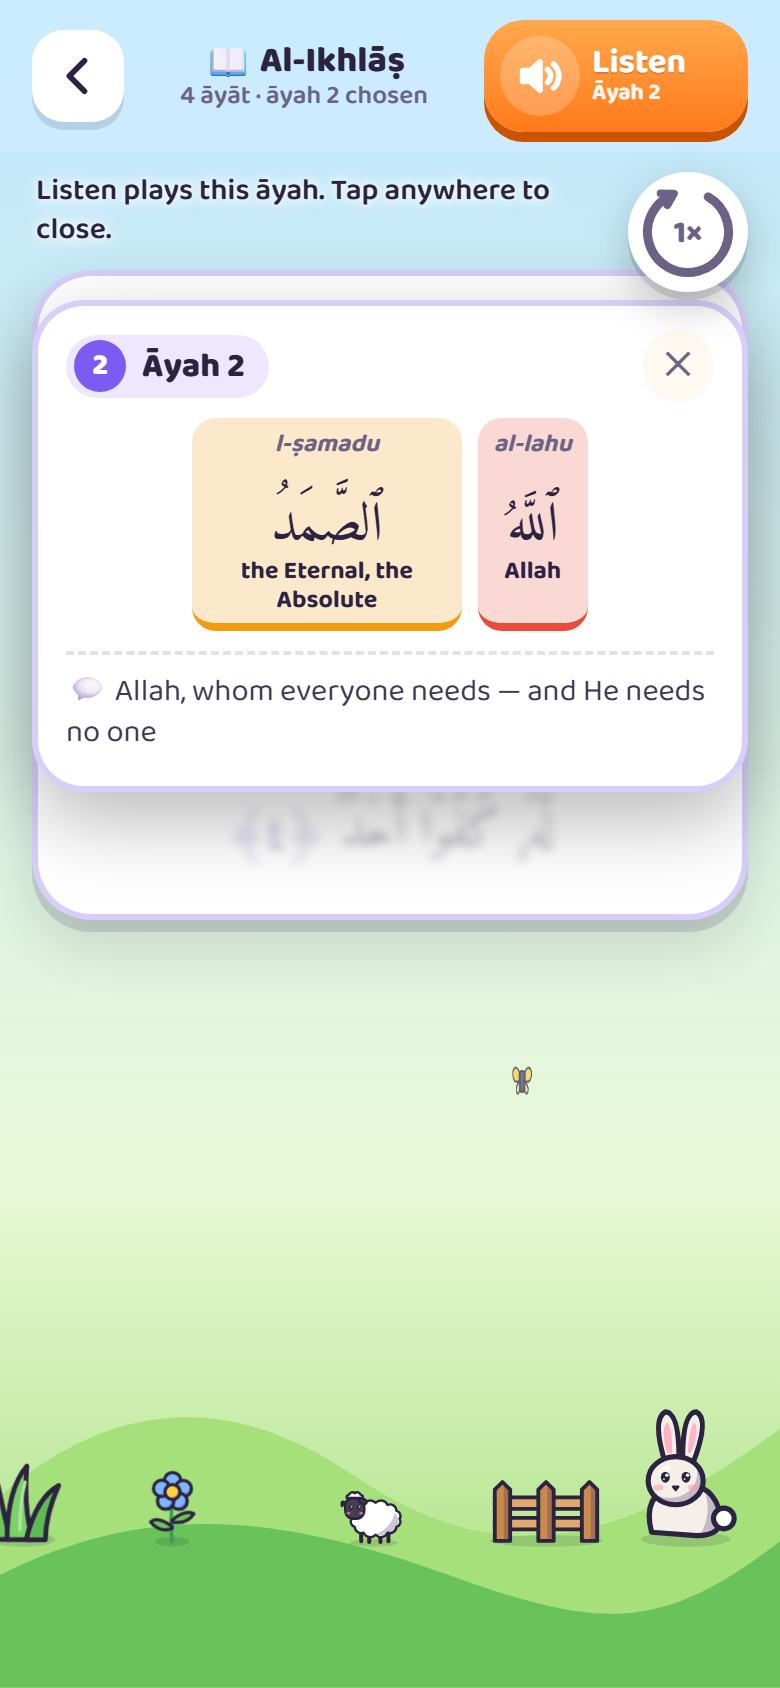
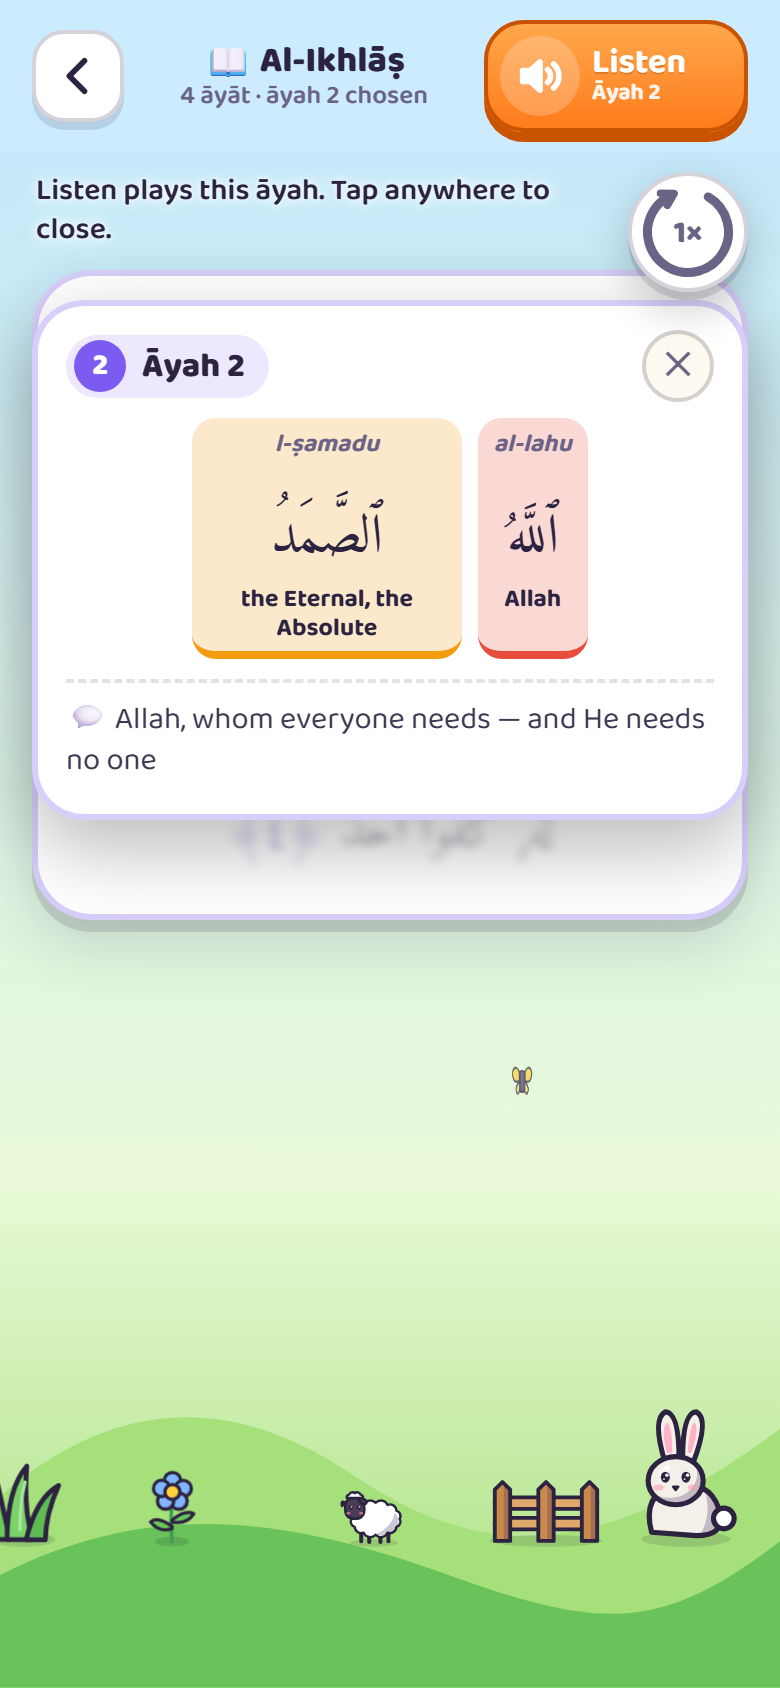
Little Hafiz Quest v2.5.1
- Explorers page and Share progress show ⭐ stars and 📖 sūrahs as icons,
  without "memorized".
- Share progress: Back works again (it had no route to Explorers); more room
  under the Share and Copy buttons. A tap-every-button test across 16
  screens found no other dead buttons.
- Every button has a visible edge (an inset outline, so no sizes change).
- Version box from the start screen: left-aligned like the Grown-up
  Corner's, with a ✕ in the corner instead of Close.
- Word Steps and Read: transliteration and meanings sit clear of the
  Arabic vowel marks.
- Read focus: the whole page blurs behind the card, the chosen āyah too.
  With word lines off, a hint and a ⚙ shortcut open the word switches,
  and Back returns to the same āyah.
- Family sync ends with a short "up to date" note; "Send it back" is gone.
- The press-and-hold ring no longer leaves a mark on Remove.

Claude-Session: https://claude.ai/code/session_01G32LazbMFB5CEeB9eK52fY

diff --git a/js/game.js b/js/game.js
@@ -37,7 +37,7 @@
 (function () {
   'use strict';
 
-  const VERSION = '2.5.0';
+  const VERSION = '2.5.1';
   const DATA = window.LHQ_DATA;
   if (!DATA || !Array.isArray(DATA.surahs)) throw new Error('Little Hafiz Quest: js/data.js did not load.');
   const ART = window.LHQ_ART;
@@ -1796,10 +1796,10 @@
     return `<div class="screen mushafscr" style="${cv(s.color)}" data-act="mclear">
     ${bar(`📖 ${s.name}`, `${s.ayat.length} āyāt · ${st.sel != null ? `āyah ${st.sel + 1} chosen` : 'the whole sūrah'}`, 'surah')}
     <div class="mtools"><span>${st.sel != null ? (st.focus ? 'Listen plays this āyah. Tap anywhere to close.' : '<b>Tap the āyah again</b> to look closer. Tap anywhere else to clear the colors.') : '<b>Hold an āyah</b> to color its words, like Word Steps.'}</span></div>
-    <div class="card mushaf">
+    <div class="card mushaf ${focus ? 'focusing' : ''}">
       <div class="mtitle" lang="ar">سُورَةُ ${s.ar}</div>
       <div class="mbism" lang="ar">${BISM}</div>
-      <div class="mtext ${focus ? 'focusing' : ''}" lang="ar" dir="rtl">${ayat}</div>
+      <div class="mtext" lang="ar" dir="rtl">${ayat}</div>
     </div>
     ${focus}
   </div>
@@ -1819,7 +1819,7 @@
       <div class="mfhead"><span class="ayah-tag"><span class="num">${k + 1}</span>Āyah ${k + 1}</span><button class="mfx" data-act="mclear" aria-label="Close">✕</button></div>
       <div class="mfwords" dir="rtl">${words}</div>
       ${prefs.meaning ? `<div class="mean">💬 ${a.kid}</div>` : ''}
-      ${!prefs.translit && !prefs.wordmean && !prefs.meaning ? '<p class="saveinfo center">Switch on transliteration, word meanings or simple meanings in the Grown-up Corner to see them here.</p>' : ''}
+      ${!prefs.translit && !prefs.wordmean ? '<div class="mfhint"><span>See how each word sounds and what it means: switch on transliteration and word meanings.</span><button class="icon-btn sm" data-act="wordset" aria-label="Open the word settings">⚙</button></div>' : ''}
     </div></div>`;
   }
   // hold an āyah (about half a second) to choose it
@@ -2478,13 +2478,15 @@
   /* On the start screen, outside the quest. Remove and Reset need a press and hold (the border fills up). */
   const holdBtn = (act, label, data, tip) =>
     `<button class="btn small danger holdbtn" data-hold="${act}" ${data || ''} data-tip="${tip}"><svg class="holdring" aria-hidden="true"><rect width="100%" height="100%" rx="14" pathLength="100"/></svg>${label}</button>`;
+  // an explorer's stars and sūrahs, as on the map
+  const exStats = (p) => `<small class="exstats"><span aria-label="stars">⭐ ${totalStars(p)}</span><span aria-label="sūrahs">📖 ${doneSurahs(p)}</span></small>`;
   V.explorers = () => {
     const prof = P(),
       nm = prof.name ? esc(prof.name) : 'this explorer';
     const rows = store.profiles
       .map((p) => {
         const on = p.id === store.cur;
-        return `<div class="exrow ${on ? 'on' : ''}"><button class="exsel" data-act="pickprof" data-id="${p.id}" aria-pressed="${on}"><span class="phead">${explorer({ view: 'front', cls: 'mini' }, p)}</span><span><b>${p.name ? esc(p.name) : 'Explorer'}</b><small>⭐ ${totalStars(p)} · ${S.filter((s) => surahDone(s, p)).length} memorized</small></span></button>
+        return `<div class="exrow ${on ? 'on' : ''}"><button class="exsel" data-act="pickprof" data-id="${p.id}" aria-pressed="${on}"><span class="phead">${explorer({ view: 'front', cls: 'mini' }, p)}</span><span><b>${p.name ? esc(p.name) : 'Explorer'}</b>${exStats(p)}</span></button>
           <button class="btn small" data-act="editlook" data-id="${p.id}" aria-label="Change look">✏</button>${holdBtn('delprof', 'Remove', `data-id="${p.id}"`, `Press and hold to remove ${p.name ? esc(p.name) : 'this explorer'}`)}</div>`;
       })
       .join('');
@@ -2598,7 +2600,7 @@
     return `<div class="screen">
     ${bar('Share progress', nm, 'explorers')}
     <div class="sheet syncsheet">
-      <div class="syncwho"><span class="phead">${explorer({ view: 'front', cls: 'mini' })}</span><span><b>${nm}</b><small>⭐ ${totalStars()} stars · ${doneSurahs()} sūrahs</small></span></div>
+      <div class="syncwho"><span class="phead">${explorer({ view: 'front', cls: 'mini' })}</span><span><b>${nm}</b>${exStats(prof)}</span></div>
       ${st.link ? `<div class="qrbox">${qrSVG(st.link)}</div>` : '<div class="qrbox wait">Making the code…</div>'}
       <p class="saveinfo center">Point the other phone's camera at the QR code, or send the link. Opening it adds ${nm}'s progress to that phone.</p>
       <div class="row"><button class="btn go wide" data-act="synclink" ${st.link ? '' : 'disabled'}>📤 Share</button><button class="btn wide" data-act="synccopy" ${st.link ? '' : 'disabled'}>📋 Copy</button></div>
@@ -2726,13 +2728,10 @@
     save(true);
     incoming = null;
     sfx.win();
-    const m = document.getElementById('modal'),
-      nm = into.name ? esc(into.name) : 'Your explorer';
-    m.innerHTML = `<div class="card synccard"><div class="syncwho big"><span class="phead">${explorer({ view: 'front', cls: 'mini' }, into)}</span><span><b>✨ ${nm} is up to date</b><small>⭐ ${totalStars(into)} stars in all</small></span></div>
-      <p class="syncsum">${gain.stars > 0 || gain.things > 0 ? `+${gain.stars} star${gain.stars === 1 ? '' : 's'} · ${gain.things} new treasure${gain.things === 1 ? '' : 's'}` : 'Nothing new this time'}</p>
-      <p class="saveinfo">To bring the other phone up to date too, send ${nm}'s progress back.</p>
-      <div class="row"><button class="btn wide" data-act="syncdone">Done</button><button class="btn go wide" data-act="syncback">📤 Send it back</button></div></div>`;
-    m.classList.add('show');
+    // done: say so, and get out of the way
+    document.getElementById('modal').classList.remove('show');
+    const nm = into.name || 'Your explorer';
+    toast(`✨ ${nm} is up to date${gain.stars > 0 || gain.things > 0 ? ` · +${gain.stars} ⭐${gain.things ? ` · ${gain.things} new treasure${gain.things === 1 ? '' : 's'}` : ''}` : ''}`);
     render();
   }
   function showPaste() {
@@ -2786,7 +2785,7 @@
   }
   function showUpdates() {
     const m = document.getElementById('modal');
-    m.innerHTML = `<div class="card updcard"><h3>🧭 Little Hafiz Quest v${VERSION}</h3>${updatesHTML()}<div class="row"><button class="btn small" data-act="cno">Close</button></div></div>`;
+    m.innerHTML = `<div class="card updcard"><button class="cardx" data-act="cno" aria-label="Close">✕</button><h3>🧭 Version</h3>${updatesHTML()}</div>`;
     m.classList.add('show');
   }
   function refreshUpdateUI() {
@@ -2871,7 +2870,7 @@
   /* ---------- GROWN-UP CORNER ---------- */
   V.settings = () => {
     const tg = (k, t, d) =>
-      `<button class="toggle" data-act="tog" data-k="${k}"><span>${t}<small>${d}</small></span><span class="sw ${prefs[k] ? 'on' : ''}"></span></button>`;
+      `<button class="toggle ${st.flash && st.flash.includes(k) ? 'flash' : ''}" data-act="tog" data-k="${k}"><span>${t}<small>${d}</small></span><span class="sw ${prefs[k] ? 'on' : ''}"></span></button>`;
     const seg = (k, opts) =>
       `<span class="seg">${opts.map(([v, l]) => `<button class="${prefs[k] === v ? 'on' : ''}" data-act="set" data-k="${k}" data-v="${v}">${l}</button>`).join('')}</span>`;
     const recs = RECITERS.map(
@@ -2879,7 +2878,7 @@
         `<div class="recrow ${r.id === prefs.reciter ? 'on' : ''}"><button class="recpick" data-act="reciter" data-id="${r.id}"><span class="rdot"></span><span>${esc(r.name)}<small>${esc(r.note)}${r.mb ? ` · ${r.mb} MB` : ''}</small></span></button><button class="icon-btn sm" data-act="sample" data-id="${r.id}" aria-label="Hear a sample">${ICON.play}</button></div>`,
     ).join('');
     return `<div class="screen">
-    ${bar('Grown-up Corner', `Settings · v${VERSION}`, 'splash', '<button class="icon-btn helpbtn" data-act="help" aria-label="How to use it, and the disclaimer">❓</button>')}
+    ${bar('Grown-up Corner', `Settings · v${VERSION}`, st.ret ? 'ret' : 'splash', '<button class="icon-btn helpbtn" data-act="help" aria-label="How to use it, and the disclaimer">❓</button>')}
     <div class="sheet">
       <h3>🎨 Look</h3>
       ${fsSheet()}
@@ -3502,14 +3501,6 @@
       case 'synccopyin':
         if (incoming && incoming.link) copyText(incoming.link, 'Copied: now open the game from your Home Screen and tap Paste from family');
         break;
-      case 'syncdone':
-        sfx.tap();
-        m.classList.remove('show');
-        break;
-      case 'syncback':
-        m.classList.remove('show');
-        openShare();
-        break;
       case 'updates':
         sfx.tap();
         showUpdates();
@@ -3801,6 +3792,8 @@
         if (to === 'map') go('map');
         else if (to === 'splash') go('splash');
         else if (to === 'bag') go('bag', { tab: 'hat' });
+        else if (to === 'explorers') go('explorers');
+        else if (to === 'ret' && st.ret) go(st.ret.view, st.ret);
         else toSurah();
         break;
       }
@@ -3826,6 +3819,14 @@
         sfx.tap();
         go('settings');
         break;
+      case 'wordset': {
+        // from the Read focus card: straight to the word switches, and back to the same āyah after
+        sfx.tap();
+        go('settings', { ret: Object.assign({}, st), flash: ['wordmean', 'translit'] });
+        const t = document.querySelector('[data-act=tog][data-k=wordmean]');
+        if (t) t.scrollIntoView({ block: 'center' });
+        break;
+      }
       case 'tog':
         prefs[b.dataset.k] = !prefs[b.dataset.k];
         save();

diff --git a/css/game.css b/css/game.css
@@ -47,6 +47,7 @@
   --bgmid: #dff2ff;
   --glass: rgba(255, 255, 255, 0.78);
   --line: rgba(43, 35, 64, 0.15);
+  --edge: rgba(43, 35, 64, 0.2);
   --shd: rgba(43, 35, 64, 0.14);
   --slot: rgba(255, 255, 255, 0.5);
   --stone: #d8d2c4;
@@ -89,6 +90,7 @@
     --bgmid: #16163a;
     --glass: rgba(37, 33, 73, 0.82);
     --line: rgba(255, 255, 255, 0.16);
+    --edge: rgba(255, 255, 255, 0.22);
     --shd: rgba(0, 0, 0, 0.38);
     --slot: rgba(255, 255, 255, 0.05);
     --stone: #4a4472;
@@ -122,6 +124,7 @@
   --bgmid: #16163a;
   --glass: rgba(37, 33, 73, 0.82);
   --line: rgba(255, 255, 255, 0.16);
+  --edge: rgba(255, 255, 255, 0.22);
   --shd: rgba(0, 0, 0, 0.38);
   --slot: rgba(255, 255, 255, 0.05);
   --stone: #4a4472;
@@ -154,6 +157,7 @@
   --bgmid: #16163a;
   --glass: rgba(37, 33, 73, 0.82);
   --line: rgba(255, 255, 255, 0.16);
+  --edge: rgba(255, 255, 255, 0.22);
   --shd: rgba(0, 0, 0, 0.38);
   --slot: rgba(255, 255, 255, 0.05);
   --stone: #4a4472;
@@ -6803,11 +6807,7 @@ body {
 .wtile:not(.shown) .wen {
   color: transparent;
 }
-/* the muṣḥaf: one āyah up close, the rest blurred behind */
-.mtext.focusing .mayah:not(.sel) {
-  filter: blur(2.5px);
-  opacity: 0.35;
-}
+/* the muṣḥaf: one āyah up close (the page behind blurs: see v2.5.1 below) */
 .mfocus {
   position: fixed;
   z-index: 25;
@@ -6869,3 +6869,150 @@ body {
   line-height: 1.8;
   color: var(--ink);
 }
+
+/* ---------- v2.5.1 ---------- */
+/* every button has an edge, so it stands out from the card or sky behind it. An inset outline, not a border,
+   so no button changes size; a chosen button's own outline (gold or green) still wins. */
+.btn,
+.icon-btn,
+.pchip,
+.verchip,
+.hud-stars,
+.qstep,
+.cpf,
+.wtab,
+.giftbtn,
+.syncopt,
+.mfx,
+.bookbtn,
+.bismbtn,
+.pgrow,
+.recpick,
+.wd-side,
+.wr-toggle,
+.icell,
+.scell,
+.hairpick,
+.swatch2,
+.exsel,
+.loopbtn,
+.linkbtn,
+.hintbtn,
+.mebtn,
+.cardx,
+.updx,
+.seg,
+.btn.gold,
+.cpmore,
+.verchip.ready,
+.btn.hear,
+.listen {
+  outline: 2px solid var(--edge);
+  outline-offset: -2px;
+}
+.btn.go,
+.mebtn.on {
+  outline-color: var(--go2);
+}
+.btn.gold,
+.cpmore,
+.verchip.ready {
+  outline-color: #c98f00;
+}
+.btn.hear,
+.listen {
+  outline-color: #c95300;
+}
+.listen.playing {
+  outline-color: #b88400;
+}
+.wtab.on {
+  outline-color: var(--ink);
+}
+.exrow.on .exsel,
+.syncopt.on,
+.recrow.on .recpick {
+  outline-color: var(--go);
+}
+.icell.locked {
+  outline-style: dashed;
+}
+/* an explorer's stars and sūrahs */
+.exstats {
+  display: flex !important;
+  gap: 14px;
+  white-space: nowrap;
+}
+/* sharing: room between the buttons and the note under them */
+.syncsheet .row + .saveinfo {
+  margin-top: 16px;
+}
+/* the version box (from the version badge): like the Grown-up Corner's, with a ✕ in the corner */
+.updcard {
+  text-align: left;
+  padding: 16px;
+}
+.updcard h3 {
+  font-size: 20px;
+  margin: 2px 44px 8px 0;
+}
+.cardx {
+  position: absolute;
+  top: 10px;
+  right: 10px;
+  width: 38px;
+  height: 38px;
+  border-radius: 50%;
+  background: var(--card2);
+  color: var(--soft);
+  font-size: 17px;
+  font-weight: 800;
+  display: grid;
+  place-items: center;
+}
+/* press and hold: the ring shows only while holding */
+.holdring rect {
+  opacity: 0;
+}
+.holdbtn.holding .holdring rect {
+  opacity: 1;
+}
+/* each word's lines: clear of the Arabic's vowel marks above and below */
+.wtl {
+  margin-bottom: 6px;
+}
+.wen {
+  margin-top: 8px;
+}
+/* Read, one āyah up close: everything behind the card blurs, the chosen āyah too */
+.mushaf.focusing > * {
+  filter: blur(2.5px);
+  opacity: 0.35;
+}
+.mfhint {
+  display: flex;
+  align-items: center;
+  gap: 10px;
+  margin-top: 10px;
+  padding: 10px 12px;
+  border-radius: 16px;
+  background: var(--card2);
+  font-size: 14.5px;
+  font-weight: 600;
+  color: var(--soft);
+  line-height: 1.3;
+  text-align: left;
+}
+.mfhint .icon-btn {
+  font-size: 20px;
+}
+/* the Grown-up Corner, opened from the focus card: the word switches light up */
+.toggle.flash {
+  animation: togflash 1.6s ease-in-out 2;
+}
+@keyframes togflash {
+  50% {
+    background: var(--chip);
+  }
+}
+

diff --git a/sw.js b/sw.js
@@ -17,7 +17,7 @@
  */
 'use strict';
 
-const VERSION = '2.5.0';
+const VERSION = '2.5.1';
 const SHELL_CACHE = `lhq2-shell-${VERSION}`;
 const AUDIO_CACHE = 'lhq2-audio'; // keep across app updates; change only if the audio files change
 const DATA_CACHE = 'lhq2-data'; // small lists that can change between versions (reciters, versions)

diff --git a/README.md b/README.md
@@ -66,7 +66,7 @@ Free, no ads, no accounts, no tracking. It works on iPhone, iPad, Android, and c
    - Gifts wait in a little rattling box at the top; tap it to open them one at a time.
 6. **My Explorer** (the backpack): the explorer always stays in view while you pick from a row of categories; **✏ My look** at the top changes their name and look, and **🏆 Awards** shows the explorer standing in their world with everything they've done: stars, sūrahs, āyāt learned, treasures, badges and time spent learning. **📤 Share** turns that page into a picture to send to family on any app, or to save to the phone. Everyday glasses are there from the start for children who wear them (tap them on under Glasses); fancier ones are won along the way. A red dot marks new things, which come first. The 👕 button beside the explorer swaps between just the comfy clothes and everything they were wearing. Tap the explorer (or just wait) and they giggle, jump, dance, wave, look around or twirl their stick, and play with what they wear: tip the hat, check the watch, raise the shield, flap the cape, or send the buddy for a run. On the map and the start screen, the explorer, animals, trees, houses and the summit flag react to a tap too. Tap an animal a few times in a row and it runs away, peeks back in, then comes home.
 7. **Progress.** Each sūrah on the map shows its stars, with a ✓ once it's memorized. The explorer's face at the top of the map opens My Explorer. Tap the 📖 (sūrahs done, at least one star each) or ⭐ (all stars) counters at the top of the map to see every sūrah. Tap one to go straight there: the explorer walks in and the next lesson starts. The list also shows the time spent in each sūrah, and in all. Learning time counts only while the game is open and being used, and stays on the device.
-8. **Two phones, one explorer (family sync).** If one parent practices in the morning and another at night on a different phone, open **Explorers → 📤 Share progress**: the other phone scans the QR code with its camera, or opens the link sent in any messaging app, and the game adds that progress to the same explorer there (the best of both: stars, āyāt, treasures; the look from whichever phone was used last). Then **Send it back** brings the first phone up to date too. On an iPhone where the game is on the Home Screen, links open in Safari instead: copy the link there, then in the Home Screen game use **Explorers → 📋 Paste from family**. Resets stay on the phone where they were made.
+8. **Two phones, one explorer (family sync).** If one parent practices in the morning and another at night on a different phone, open **Explorers → 📤 Share progress**: the other phone scans the QR code with its camera, or opens the link sent in any messaging app, and the game adds that progress to the same explorer there (the best of both: stars, āyāt, treasures; the look from whichever phone was used last). Sharing goes one way, from the phone with the newer progress. On an iPhone where the game is on the Home Screen, links open in Safari instead: copy the link there, then in the Home Screen game use **Explorers → 📋 Paste from family**. Resets stay on the phone where they were made.
 9. **The summit.** With a star in every sūrah, the explorer climbs to the top of the mountain and cheers: every treasure and sticker is unlocked, plus the **Summit cloak**. Three stars in every sūrah win the **Hafiz crown** (a tiara for girls), and every single star wins the one-of-a-kind **Golden hoopoe**.
 
 Longer sūrahs are split into checkpoints of a few āyāt; finish the checkpoints, then the 🏁 whole sūrah. Each sūrah also has a **tip for grown-ups**, sometimes with a toy to tap along (a bell, a drum, a clap).
